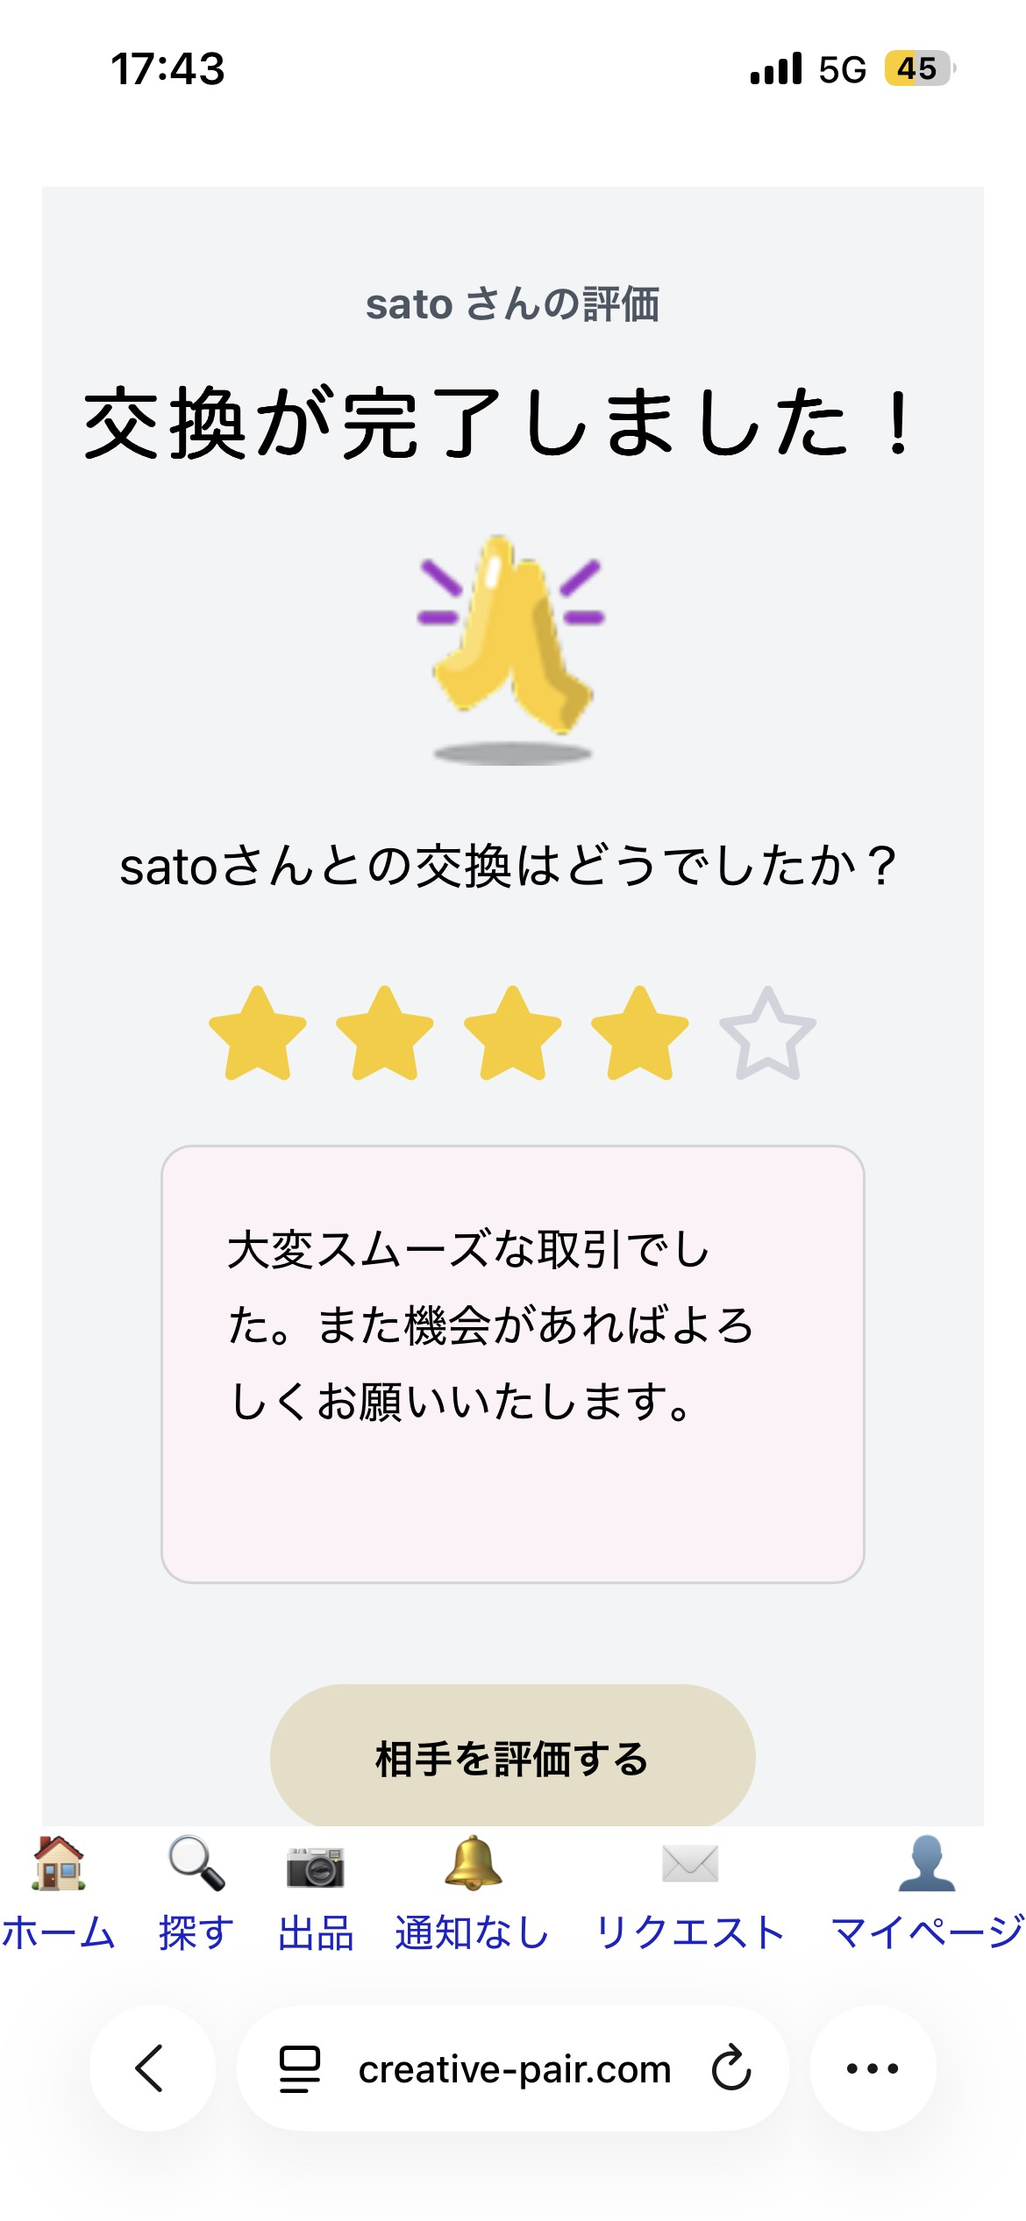
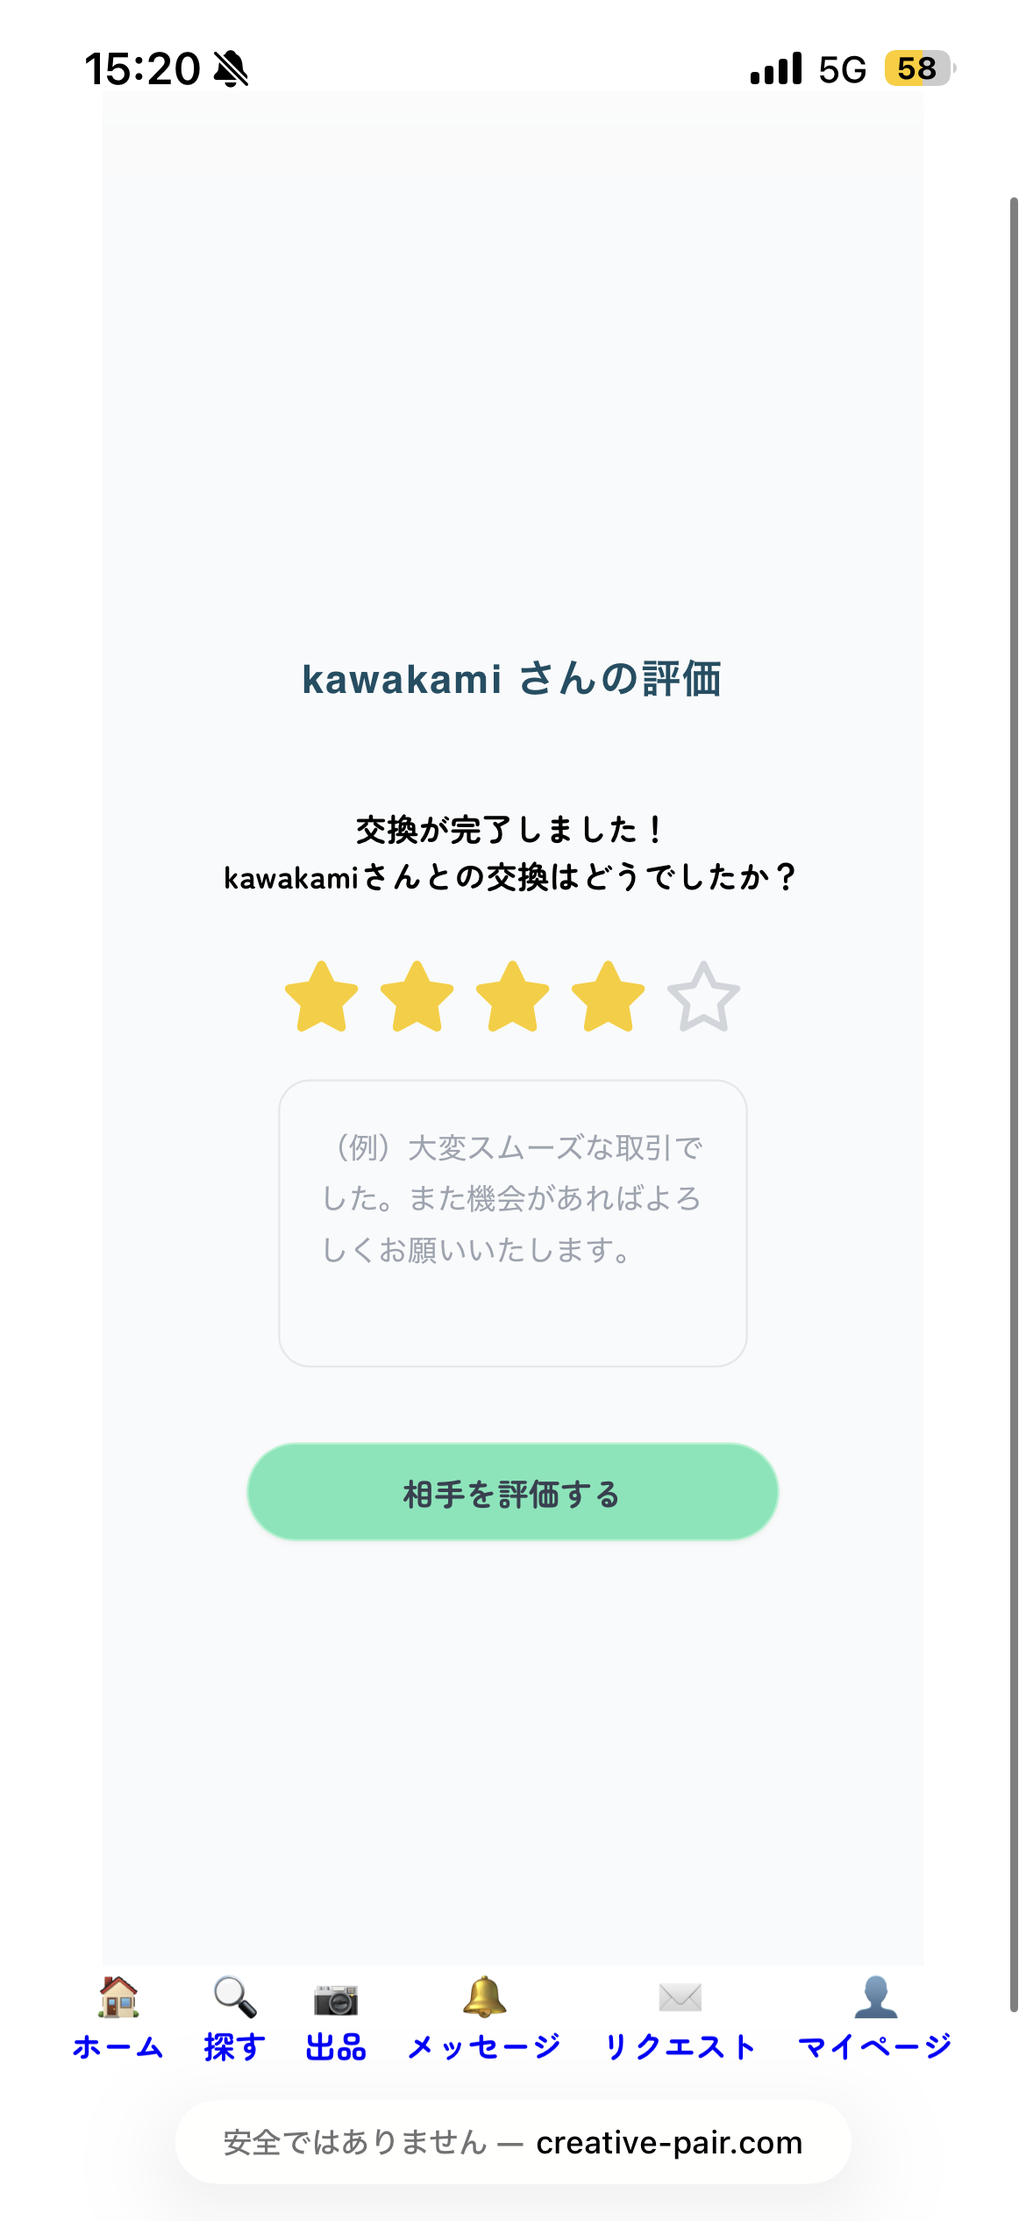
マニュアルページを編集しました

diff --git a/resources/views/manual.blade.php b/resources/views/manual.blade.php
@@ -1,6 +1,6 @@
 <x-user-layout>
     <div class="max-w-2xl mx-auto py-8 px-6 text-gray-700 leading-relaxed">
-        <h2 class="text-2xl font-bold mb-6 border-b pb-2 text-center text-blue-600 text-lg md:text-2xl">ご利用ガイド</h2>
+        <x-section-title>ご利用ガイド</x-section-title>
 
         <div class="bg-blue-50 p-5 rounded-xl mb-10 shadow-sm border border-blue-100">
             <p class="text-sm md:text-base text-blue-900 font-medium mb-2">
@@ -20,7 +20,7 @@
             <section>
                 <div class="flex items-center mb-3">
                     <span class="bg-blue-600 text-white rounded-full min-w-[24px] h-6 flex items-center justify-center mr-3 font-bold text-xs">1</span>
-                    <h3 class="text-lg font-semibold text-gray-800 text-base md:text-lg">欲しい商品を探す</h3>
+                    <h3 class="text-base md:text-lg font-semibold text-gray-800">欲しい商品を探す</h3>
                 </div>
                 <p class="mb-4 text-xs md:text-sm text-gray-600 ml-9">「探す」ページから、あなたが今探しているシリーズやキャラクターを検索しましょう。</p>
                 <div class="border rounded-xl overflow-hidden shadow-sm ml-9 max-w-sm">
@@ -31,7 +31,7 @@
             <section>
                 <div class="flex items-center mb-3">
                     <span class="bg-blue-600 text-white rounded-full min-w-[24px] h-6 flex items-center justify-center mr-3 font-bold text-xs">2</span>
-                    <h3 class="text-lg font-semibold text-gray-800 text-base md:text-lg">交換を申し込む</h3>
+                    <h3 class="text-base md:text-lg font-semibold text-gray-800">交換を申し込む</h3>
                 </div>
                 <p class="mb-4 text-xs md:text-sm text-gray-600 ml-9">条件に合うユーザーを見つけたら、詳細画面から交換のリクエストを送ります。</p>
                 <div class="border rounded-xl overflow-hidden shadow-sm ml-9 max-w-sm">
@@ -42,9 +42,9 @@
             <section>
                 <div class="flex items-center mb-3">
                     <span class="bg-blue-600 text-white rounded-full min-w-[24px] h-6 flex items-center justify-center mr-3 font-bold text-xs">3</span>
-                    <h3 class="text-lg font-semibold text-gray-800 text-base md:text-lg text-sm md:text-base">リクエストを送信する</h3>
+                    <h3 class="text-base md:text-lg font-semibold text-gray-800">リクエストを送信する</h3>
                 </div>
-                <p class="mb-4 text-xs md:text-sm text-gray-600 ml-9 leading-relaxed">提示する商品を選択し、商品の状態がわかる画像とメッセージを添えて申請を送信しましょう。完了すると、相手ユーザーに通知が届きます。</p>
+                <p class="mb-4 text-xs md:text-sm text-gray-600 ml-9 leading-relaxed">提示する商品を選択し、商品の状態がわかる画像とメッセージを添えて申請を送信しましょう。</p>
                 <div class="border rounded-xl overflow-hidden shadow-sm ml-9 max-w-sm">
                     <img src="{{ asset('images/manual3.png') }}" alt="交換リクエストの送信" class="w-full h-auto">
                 </div>
@@ -55,11 +55,11 @@
             <span class="bg-green-600 w-1.5 h-6 mr-2 rounded-full"></span>商品を出品する
         </h3>
 
-        <div class="space-y-10">
+        <div class="space-y-10 mb-16">
             <section>
                 <div class="flex items-center mb-3">
                     <span class="bg-green-600 text-white rounded-full min-w-[24px] h-6 flex items-center justify-center mr-3 font-bold text-xs">1</span>
-                    <h3 class="text-lg font-semibold text-gray-800 text-base md:text-lg">商品情報を登録する</h3>
+                    <h3 class="text-base md:text-lg font-semibold text-gray-800">商品情報を登録する</h3>
                 </div>
                 <div class="mb-4 text-xs md:text-sm text-gray-600 ml-9">
                     「出品」ページから、お手元のダブった商品を登録します。
@@ -75,17 +75,18 @@
             </section>
 
             <section>
-                <div class="flex items-center mb-4">
-                    <span class="bg-green-600 text-white rounded-full w-6 h-6 flex items-center justify-center mr-3 font-bold text-xs">2</span>
-                    <h3 class="text-xl font-semibold">リクエストを待つ</h3>
+                <div class="flex items-center mb-3">
+                    <span class="bg-green-600 text-white rounded-full min-w-[24px] h-6 flex items-center justify-center mr-3 font-bold text-xs">2</span>
+                    <h3 class="text-base md:text-lg font-semibold text-gray-800">リクエストを待つ</h3>
                 </div>
-                <p class="mb-4 text-sm md:text-base">出品が完了したら、他のユーザーから交換リクエストが届くのを待ちましょう。</p>
-                <div class="border rounded-xl overflow-hidden shadow-sm">
+                <p class="mb-4 text-xs md:text-sm text-gray-600 ml-9">出品が完了したら、他のユーザーから交換リクエストが届くのを待ちましょう。</p>
+                <div class="border rounded-xl overflow-hidden shadow-sm ml-9 max-w-sm">
                     <img src="{{ asset('images/manual5.png') }}" alt="リクエスト待機画面" class="w-full h-auto">
                 </div>
             </section>
         </div>
-        <h3 class="text-md font-bold mb-6 mt-16 flex items-center text-gray-800">
+
+        <h3 class="text-md font-bold mb-6 flex items-center text-gray-800">
             <span class="bg-orange-500 w-1.5 h-6 mr-2 rounded-full"></span>リクエストが届いたら
         </h3>
 
@@ -93,21 +94,24 @@
             <section>
                 <div class="flex items-center mb-3">
                     <span class="bg-orange-500 text-white rounded-full min-w-[24px] h-6 flex items-center justify-center mr-3 font-bold text-xs">1</span>
-                    <h3 class="text-lg font-semibold text-gray-800 text-base md:text-lg">リクエストを確認する</h3>
+                    <h3 class="text-base md:text-lg font-semibold text-gray-800">リクエストを確認する</h3>
                 </div>
-                <div class="mb-4 text-xs md:text-sm text-gray-600 ml-9 leading-relaxed">
-                    リクエストが届くと、画面下部のメニュー（<span class="font-bold">✉アイコン</span>）に件数が表示されます。<br>
-                    クリックして、相手が提示している商品の写真や情報を確認しましょう。
-                </div>
-                <div class="border rounded-xl overflow-hidden shadow-sm ml-9 max-w-sm">
-                    <img src="{{ asset('images/manual6.png') }}" alt="リクエスト確認画面" class="w-full h-auto">
+                <div class="mb-4 text-xs md:text-sm text-gray-600 ml-9 space-y-4">
+                    <p>リクエストが届くと、画面下部のメニュー（<span class="font-bold">✉アイコン</span>）に件数が表示されます。</p>
+                    <div class="border rounded-xl overflow-hidden shadow-sm max-w-sm">
+                        <img src="{{ asset('images/manual6-0.png') }}" alt="リクエスト確認" class="w-full h-auto">
+                    </div>
+                    <p>クリックして、相手が提示している商品の写真や情報を確認しましょう。</p>
+                    <div class="border rounded-xl overflow-hidden shadow-sm max-w-sm">
+                        <img src="{{ asset('images/manual6.png') }}" alt="リクエスト詳細" class="w-full h-auto">
+                    </div>
                 </div>
             </section>
 
             <section>
                 <div class="flex items-center mb-3">
                     <span class="bg-orange-500 text-white rounded-full min-w-[24px] h-6 flex items-center justify-center mr-3 font-bold text-xs">2</span>
-                    <h3 class="text-lg font-semibold text-gray-800 text-base md:text-lg">交換を承認する</h3>
+                    <h3 class="text-base md:text-lg font-semibold text-gray-800">交換を承認する</h3>
                 </div>
                 <p class="mb-4 text-xs md:text-sm text-gray-600 ml-9">内容に納得できたら「この内容で交換する」ボタンを押下し、取引を開始します。</p>
                 <div class="border rounded-xl overflow-hidden shadow-sm ml-9 max-w-sm">
@@ -118,41 +122,25 @@
             <section>
                 <div class="flex items-center mb-3">
                     <span class="bg-orange-500 text-white rounded-full min-w-[24px] h-6 flex items-center justify-center mr-3 font-bold text-xs">3</span>
-                    <h3 class="text-lg font-semibold text-gray-800 text-base md:text-lg">メッセージで相談する</h3>
+                    <h3 class="text-base md:text-lg font-semibold text-gray-800">メッセージで相談する</h3>
                 </div>
-                <p class="mb-4 text-xs md:text-sm text-gray-600 ml-9">専用のチャット画面が開きます。まずは挨拶をして、待ち合わせ場所や日時を相談しましょう。</p>
-                <div class="border rounded-xl overflow-hidden shadow-sm ml-9 max-w-sm">
-                    <img src="{{ asset('images/manual8.png') }}" alt="チャット画面" class="w-full h-auto">
-                </div>
-
+                <p class="mb-4 text-xs md:text-sm text-gray-600 ml-9">専用のチャット画面で、挨拶や待ち合わせ場所・日時を相談してください。</p>
                 <div class="mt-4 mb-4 text-xs md:text-sm text-gray-600 ml-9 bg-gray-50 p-3 rounded-lg border-l-2 border-gray-300">
-                    <p><strong>💡 通知について</strong><br>
-                        相手から返信が届くと、画面下部の<span class="font-bold">🔔アイコン</span>に通知が表示されます。こまめにチェックしましょう。</p>
+                    <p><strong>💡 通知について</strong><br>返信が届くと、画面下部の<span class="font-bold">🔔アイコン</span>に通知が表示されます。</p>
                 </div>
                 <div class="border rounded-xl overflow-hidden shadow-sm ml-9 max-w-sm">
-                    <img src="{{ asset('images/manual10.png') }}" alt="通知の確認" class="w-full h-auto">
+                    <img src="{{ asset('images/manual9.png') }}" alt="通知の確認" class="w-full h-auto">
                 </div>
             </section>
 
             <section>
                 <div class="flex items-center mb-3">
                     <span class="bg-orange-500 text-white rounded-full min-w-[24px] h-6 flex items-center justify-center mr-3 font-bold text-xs">4</span>
-                    <h3 class="text-lg font-semibold text-gray-800 text-base md:text-lg">取引を完了する</h3>
+                    <h3 class="text-base md:text-lg font-semibold text-gray-800">取引を完了する<span class="text-sm font-normal ml-1">(出品者のみ)</span></h3>
                 </div>
-                <p class="mb-4 text-xs md:text-sm text-gray-600 ml-9 text-sm">無事に手渡しでの交換が終わったら、「取引を完了する」ボタンを押してください。</p>
+                <p class="mb-4 text-xs md:text-sm text-gray-600 ml-9">無事に手渡しが終わったら、「取引を完了する」ボタンを押してください。<br><span class="text-[10px]">※リクエスト申請側には表示されません。</span></p>
                 <div class="border rounded-xl overflow-hidden shadow-sm ml-9 max-w-sm">
                     <img src="{{ asset('images/manual11.png') }}" alt="完了ボタン" class="w-full h-auto">
-                </div>
-            </section>
-
-            <section>
-                <div class="flex items-center mb-3">
-                    <span class="bg-orange-500 text-white rounded-full min-w-[24px] h-6 flex items-center justify-center mr-3 font-bold text-xs">5</span>
-                    <h3 class="text-lg font-semibold text-gray-800 text-base md:text-lg">相手を評価する</h3>
-                </div>
-                <p class="mb-4 text-xs md:text-sm text-gray-600 ml-9 text-sm">最後に「はい」を選択し、相手の評価を入力して全ての取引が終了となります。</p>
-                <div class="border rounded-xl overflow-hidden shadow-sm ml-9 max-w-sm">
-                    <img src="{{ asset('images/manual12.png') }}" alt="評価画面" class="w-full h-auto">
                 </div>
             </section>
         </div>
@@ -163,10 +151,69 @@
             </h4>
             <ul class="list-disc ml-4 space-y-1 text-gray-600 leading-tight">
                 <li>本サービスでの金銭のやり取りは<span class="text-red-600 font-bold">一切禁止</span>です。</li>
-                <li>待ち合わせ場所や日時は、マッチング後のチャット機能にて誠実に相談してください。</li>
+                <li>待ち合わせ場所や日時は、チャット機能にて誠実に相談してください。</li>
                 <li>手渡し時は、公共の場など安全な場所を選んでください。</li>
             </ul>
         </div>
 
+        <div class="mt-16 pt-10 border-t border-gray-200">
+            <x-section-title>その他の機能</x-section-title>
+
+            <div class="space-y-16">
+                <section>
+                    <div class="flex items-center mb-3">
+                        <span class="bg-blue-500 text-white rounded-full min-w-[24px] h-6 flex items-center justify-center mr-3 font-bold text-xs">A</span>
+                        <h3 class="text-lg font-semibold text-gray-800">出品・取引完了の確認</h3>
+                    </div>
+                    <p class="mb-4 text-xs md:text-sm text-gray-600 ml-9 leading-relaxed">
+                        マイページの「出品中」「取引完了」から各アイテム情報が確認できます。アイテムの削除もここから可能です。
+                    </p>
+                    <div class="grid grid-cols-1 sm:grid-cols-2 gap-4 ml-9 max-w-xl">
+                        <div class="border rounded-xl overflow-hidden shadow-sm">
+                            <img src="{{ asset('images/manual13.png') }}" alt="マイページ確認" class="w-full h-auto">
+                        </div>
+                        <div class="border rounded-xl overflow-hidden shadow-sm">
+                            <img src="{{ asset('images/manual14.png') }}" alt="アイテム削除" class="w-full h-auto">
+                        </div>
+                    </div>
+                </section>
+
+                <section>
+                    <div class="flex items-center mb-3">
+                        <span class="bg-blue-500 text-white rounded-full min-w-[24px] h-6 flex items-center justify-center mr-3 font-bold text-xs">B</span>
+                        <h3 class="text-lg font-semibold text-gray-800">お気に入り登録</h3>
+                    </div>
+                    <p class="mb-4 text-xs md:text-sm text-gray-600 ml-9 leading-relaxed">
+                        商品詳細ページの <span class="text-red-500">❤</span> ボタンをタップしてお気に入り登録（ログイン中のみ）。登録したアイテムはマイページから確認できます。
+                    </p>
+                    <div class="grid grid-cols-1 sm:grid-cols-2 gap-4 ml-9 max-w-xl">
+                        <div class="border rounded-xl overflow-hidden shadow-sm">
+                            <img src="{{ asset('images/manual15.png') }}" alt="詳細ページで❤" class="w-full h-auto">
+                        </div>
+                        <div class="border rounded-xl overflow-hidden shadow-sm">
+                            <img src="{{ asset('images/manual16.png') }}" alt="マイページお気に入り一覧" class="w-full h-auto">
+                        </div>
+                    </div>
+                </section>
+
+                <section>
+                    <div class="flex items-center mb-3">
+                        <span class="bg-blue-500 text-white rounded-full min-w-[24px] h-6 flex items-center justify-center mr-3 font-bold text-xs">C</span>
+                        <h3 class="text-lg font-semibold text-gray-800">通知機能の活用</h3>
+                    </div>
+                    <p class="mb-4 text-xs md:text-sm text-gray-600 ml-9 leading-relaxed">
+                        トップページ右上の「通知」からメッセージやリクエストの状況を確認できます。確認ボタンを押すと詳細ページへ遷移します。
+                    </p>
+                    <div class="grid grid-cols-1 sm:grid-cols-2 gap-4 ml-9 max-w-xl">
+                        <div class="border rounded-xl overflow-hidden shadow-sm">
+                            <img src="{{ asset('images/manual17.png') }}" alt="通知アイコン" class="w-full h-auto">
+                        </div>
+                        <div class="border rounded-xl overflow-hidden shadow-sm">
+                            <img src="{{ asset('images/manual18.png') }}" alt="通知内容確認" class="w-full h-auto">
+                        </div>
+                    </div>
+                </section>
+            </div>
+        </div>
     </div>
 </x-user-layout>

diff --git a/resources/views/rating.blade.php b/resources/views/rating.blade.php
@@ -6,15 +6,15 @@
     </head>
     <div class="bg-gray-50 flex flex-col items-center justify-center min-h-screen px-6 py-12">
         <div class="mt-8 pb-4 text-gray-600 font-bold flex items-center gap-x-3">
-            {{ $user->name ?? 'ゲスト' }} さんの評価
+
+            <x-section-title>{{ $user->name ?? 'ゲスト' }} さんの評価</x-section-title>
             <!-- 福田追加 -->
-            <img src="{{ $user->icon_url ?? asset('images/default-icon.png') }}" alt="icon"
-                class="w-12 h-12 rounded-full object-cover border border-gray-200">
+            <!-- <img src="{{ $user->icon_url ?? asset('images/default-icon.png') }}" alt="icon"
+                class="w-12 h-12 rounded-full object-cover border border-gray-200"> -->
         </div>
 
-        <div class="text-center">
-            <h2 class="text-3xl font-bold mb-4">交換が完了しました！</h2>
-        </div>
+        <p>交換が完了しました！</p>
+
 
         <!-- 画像挿入 -->
         <!-- <img src="{{ asset('images/hand.png') }}" alt="" class="w-24 h-24 object-contain mb-6 mx-auto"> -->

diff --git a/resources/views/ratingsubmit.blade.php b/resources/views/ratingsubmit.blade.php
@@ -15,11 +15,11 @@
                     w-full max-w-md 
                     p-10 text-center shadow-sm">
 
-                <p class="text-lg font-medium mb-4">
+                <p>
                     評価を送信しました
                 </p>
 
-                <p class="text-base">
+                <p>
                     評価が完了しました！スムーズな取引をありがとうございました。また素敵な出会いがありますように！
                 </p>
             </div>

diff --git a/resources/views/requestSelect.blade.php b/resources/views/requestSelect.blade.php
@@ -158,7 +158,7 @@
                     <form method="get" action="{{ route('requestanswer') }}" class="w-full">
                         <input type="hidden" name="request_id" value="{{ $row->id }}">
                         <x-original-button color="emerald" class="w-full py-4 text-base shadow-xl">
-                            詳細を確認する
+                            リクエスト詳細を確認する
                         </x-original-button>
                     </form>
                 </div>
